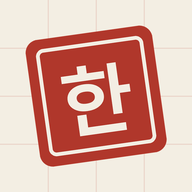
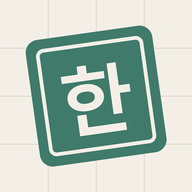
Тёмная тема «ночное небо» и нефритовый значок

diff --git a/app/styles.css b/app/styles.css
@@ -1,6 +1,6 @@
 /* Корейская тетрадь: бумага, тушь, красная печать, клетка 원고지. Тонкие линии вместо теней. */
 :root {
-  /* «Ханок»: тёплое дерево, бумага ханджи, нефритовый акцент. Красный — только печати 도장 и ошибки. */
+  /* «Ханок»: тёплое дерево, бумага ханджи, нефритовый акцент. Тёмная тема — «ночное небо» (сине-серый, как тушь). Красный — только печати 도장 и ошибки. */
   --paper: #f4efe6; --sheet: #fbf8f2; --ink: #3a2a1f; --ink-2: #5d4a3b; --muted: #8b7b69; --line: #e4dccd; --line-2: #ece5d8;
   --accent: #3f7a6b; --accent-2: #346658; --accent-soft: #dfeae5; --on-accent: #f8f5ee;
   --grid: rgba(120, 90, 60, .18); --grid-soft: rgba(120, 90, 60, .07);
@@ -11,17 +11,17 @@
 }
 @media (prefers-color-scheme: dark) {
   :root:not([data-theme="light"]) {
-    --paper: #1a1612; --sheet: #231e18; --ink: #ede3d3; --ink-2: #cdbfa9; --muted: #a09079; --line: #3a3128; --line-2: #2d2620;
-    --accent: #74b3a1; --accent-2: #8cc4b3; --accent-soft: #1f322c; --on-accent: #14110d;
-    --grid: rgba(220, 190, 150, .16); --grid-soft: rgba(220, 190, 150, .06);
-    --red: #de7a62; --red-soft: #3b231c; --green: #74b3a1; --green-soft: #1f322c; --blue: #8fb6d4; color-scheme: dark;
+    --paper: #13171c; --sheet: #1b2128; --ink: #e3e7ec; --ink-2: #c3cad3; --muted: #8b95a1; --line: #283039; --line-2: #20272f;
+    --accent: #7cc0ab; --accent-2: #94cfbc; --accent-soft: #1b2f2b; --on-accent: #0f1317;
+    --grid: rgba(180, 200, 220, .14); --grid-soft: rgba(180, 200, 220, .05);
+    --red: #e07a68; --red-soft: #3a2326; --green: #7cc0ab; --green-soft: #1b2f2b; --blue: #8fb6d4; color-scheme: dark;
   }
 }
 :root[data-theme="dark"] {
-  --paper: #1a1612; --sheet: #231e18; --ink: #ede3d3; --ink-2: #cdbfa9; --muted: #a09079; --line: #3a3128; --line-2: #2d2620;
-  --accent: #74b3a1; --accent-2: #8cc4b3; --accent-soft: #1f322c; --on-accent: #14110d;
-  --grid: rgba(220, 190, 150, .16); --grid-soft: rgba(220, 190, 150, .06);
-  --red: #de7a62; --red-soft: #3b231c; --green: #74b3a1; --green-soft: #1f322c; --blue: #8fb6d4; color-scheme: dark;
+  --paper: #13171c; --sheet: #1b2128; --ink: #e3e7ec; --ink-2: #c3cad3; --muted: #8b95a1; --line: #283039; --line-2: #20272f;
+  --accent: #7cc0ab; --accent-2: #94cfbc; --accent-soft: #1b2f2b; --on-accent: #0f1317;
+  --grid: rgba(180, 200, 220, .14); --grid-soft: rgba(180, 200, 220, .05);
+  --red: #e07a68; --red-soft: #3a2326; --green: #7cc0ab; --green-soft: #1b2f2b; --blue: #8fb6d4; color-scheme: dark;
 }
 
 * { box-sizing: border-box; }

diff --git a/index.html b/index.html
@@ -6,7 +6,7 @@
   <title>한국어 · Мой корейский</title>
   <meta name="description" content="Тренажёр корейского по пройденным урокам: словарь, хангыль, грамматика, аудирование.">
   <meta name="theme-color" content="#f4efe6" media="(prefers-color-scheme: light)">
-  <meta name="theme-color" content="#1a1612" media="(prefers-color-scheme: dark)">
+  <meta name="theme-color" content="#13171c" media="(prefers-color-scheme: dark)">
   <link rel="manifest" href="manifest.webmanifest">
   <link rel="icon" href="icon.svg" type="image/svg+xml">
   <link rel="apple-touch-icon" href="icon-180.png">

diff --git a/tools/make_icons.py b/tools/make_icons.py
@@ -3,7 +3,7 @@ from pathlib import Path
 from PIL import Image, ImageDraw, ImageFont
 
 ROOT = Path(__file__).resolve().parent.parent
-PAPER, RED, GRID = (243, 238, 227), (176, 55, 43), (176, 55, 43, 36)
+PAPER, SEAL, GRID = (244, 239, 230), (63, 122, 107), (120, 90, 60, 36)  # бумага, нефритовая печать, клетка
 FONT = 'C:/Windows/Fonts/malgunbd.ttf'
 
 
@@ -25,7 +25,7 @@ def icon(size: int, maskable: bool = False) -> Image.Image:
     d = ImageDraw.Draw(seal)
     c = big / 2
     h = 170 * k * sc
-    d.rounded_rectangle([c - h, c - h, c + h, c + h], radius=34 * k * sc, fill=RED)
+    d.rounded_rectangle([c - h, c - h, c + h, c + h], radius=34 * k * sc, fill=SEAL)
     i = 144 * k * sc
     d.rounded_rectangle([c - i, c - i, c + i, c + i], radius=20 * k * sc, outline=PAPER, width=max(2, int(10 * k * sc)))
     font = ImageFont.truetype(FONT, int(200 * k * sc))

diff --git a/CLAUDE.md b/CLAUDE.md
@@ -43,7 +43,7 @@ index.html, manifest.webmanifest, sw.js, icon.svg, icon-*.png (PNG-значки:
 
 Свои слова пользователя: `Store.custom()`, в `DB` это «урок 0» (`DB.allNums()` включает 0, если такие слова есть).
 
-Стиль «Ханок»: тёплое дерево и бумага ханджи, акцент нефритовый `--accent`, мягкие скругления `--r` / `--r-lg`, корейский шрифт с засечками. Красный `--red` только для ошибок и печатей 도장 (`UI.stamp`, календарь). Клетки 원고지 остались в прописях и разборе ошибок. Не добавлять градиенты, тени, эмодзи, иконки в цветных плашках.
+Стиль «Ханок»: тёплое дерево и бумага ханджи (тёмная тема — «ночное небо», сине-серый), акцент нефритовый `--accent`, значок — нефритовая печать, мягкие скругления `--r` / `--r-lg`, корейский шрифт с засечками. Красный `--red` только для ошибок и печатей 도장 (`UI.stamp`, календарь). Клетки 원고지 остались в прописях и разборе ошибок. Не добавлять градиенты, тени, эмодзи, иконки в цветных плашках.
 
 ## Прогресс
 
